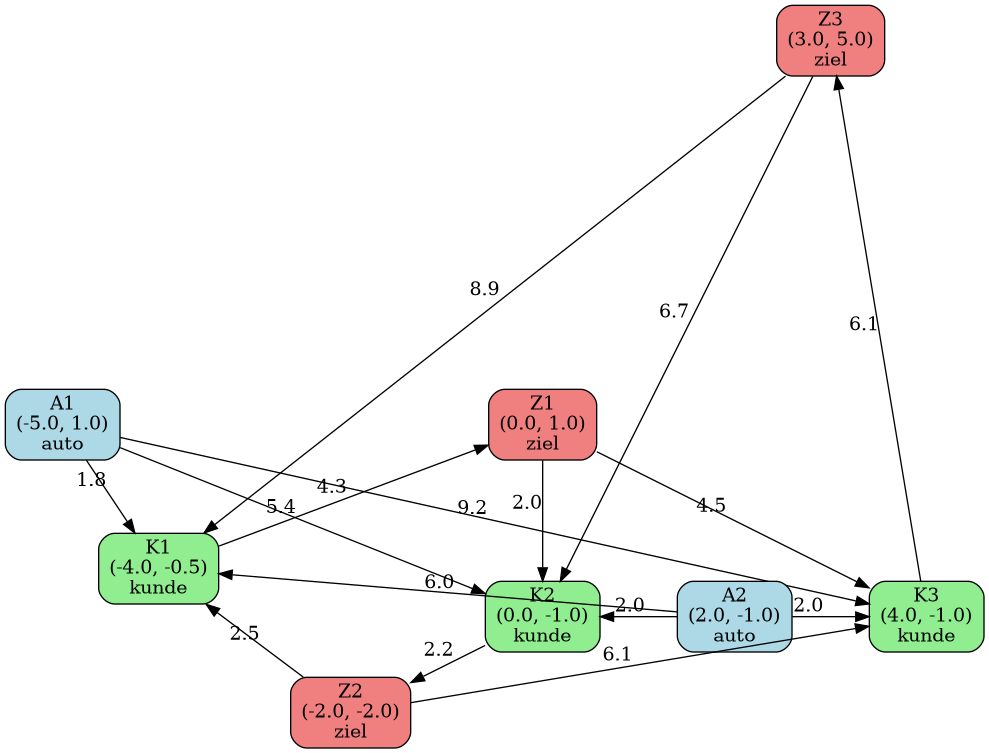
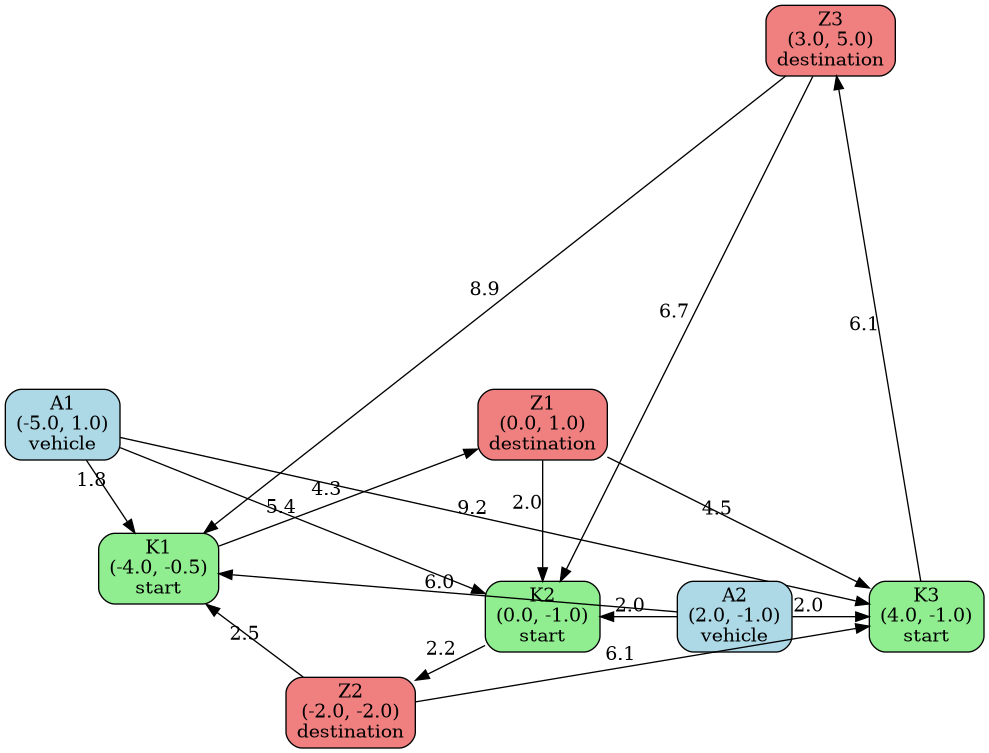
rename

diff --git a/algorithm/solver.py b/algorithm/solver.py
@@ -2,7 +2,7 @@ from graph import *
 
 
 def get_possible_moves(graph: Graph):
-    cars = [v for v in graph.vertices if v.type == "auto"]
+    cars = [v for v in graph.vertices if v.type == "vehicle"]
 
     moves: list[tuple[Vertex, tuple[Vertex, float, Vertex]]] = []
     for car in cars:
@@ -37,7 +37,7 @@ def perform_move(graph: Graph, move: tuple[Vertex, tuple[Vertex, float, Vertex]]
 
     graph.removeVertex(customer_goal)
 
-    newcar = Vertex(car.name, customer_goal.pos, "auto")
+    newcar = Vertex(car.name, customer_goal.pos, "vehicle")
 
     graph.addVertex(newcar, connections)
 
@@ -54,8 +54,8 @@ def undo_move(graph: Graph, move: tuple[Vertex, tuple[Vertex, float, Vertex]]):
     # remove car
     graph.removeVertex(car)
 
-    customers = [v for v in graph.vertices if v.type == "kunde"]
-    goals = [v for v in graph.vertices if v.type == "ziel"]
+    customers = [v for v in graph.vertices if v.type == "start"]
+    goals = [v for v in graph.vertices if v.type == "destination"]
 
     # add customer goal
     graph.addVertex(customer_goal, customers)
@@ -70,7 +70,7 @@ def undo_move(graph: Graph, move: tuple[Vertex, tuple[Vertex, float, Vertex]]):
     # add car
     graph.addVertex(car, customers + [customer])
 
-    cars = [v for v in graph.vertices if v.type == "auto"]
+    cars = [v for v in graph.vertices if v.type == "vehicle"]
 
     for other_car in cars:
         if other_car == car:
@@ -135,11 +135,11 @@ def solve(graph: Graph, car_paths: dict = None, best_solution: Solution = None, 
         # Initialize car paths for all cars
         car_paths = {
             car.name: CarPath(car)
-            for car in graph.vertices if car.type == "auto"
+            for car in graph.vertices if car.type == "vehicle"
         }
 
     # Check if we've found a solution (no more customers)
-    customers = [v for v in graph.vertices if v.type == "kunde"]
+    customers = [v for v in graph.vertices if v.type == "start"]
     if not customers:
         best_solution.max_checks -= 1
 

diff --git a/algorithm/graph.py b/algorithm/graph.py
@@ -1,8 +1,9 @@
 import graphviz
+import typing
 
 
 class Vertex:
-    def __init__(self, name, pos: tuple[float, float], type: str):
+    def __init__(self, name, pos: tuple[float, float], type: typing.Literal["vehicle", "start", "destination"]):
         self.name = name
         self.pos = pos
         self.type = type
@@ -61,11 +62,11 @@ class Graph:
 
     def draw_graph(self, output_file="graph.png", solution=None):
         def _get_color_for_type(vertex_type):
-            if vertex_type == "auto":
+            if vertex_type == "vehicle":
                 return "lightblue"
-            elif vertex_type == "kunde":
+            elif vertex_type == "start":
                 return "lightgreen"
-            elif vertex_type == "ziel":
+            elif vertex_type == "destination":
                 return "lightcoral"
             else:
                 return "white"

diff --git a/algorithm/main.py b/algorithm/main.py
@@ -2,16 +2,16 @@ import solver
 from graph import *
 
 
-A1 = Vertex("A1", (-5, 1), "auto")
-A2 = Vertex("A2", (2, -1), "auto")
+A1 = Vertex("A1", (-5, 1), "vehicle")
+A2 = Vertex("A2", (2, -1), "vehicle")
 
-K1 = Vertex("K1", (-4, -0.5), "kunde")
-K2 = Vertex("K2", (0, -1), "kunde")
-K3 = Vertex("K3", (4, -1), "kunde")
+K1 = Vertex("K1", (-4, -0.5), "start")
+K2 = Vertex("K2", (0, -1), "start")
+K3 = Vertex("K3", (4, -1), "start")
 
-Z1 = Vertex("Z1", (0, 1), "ziel")
-Z2 = Vertex("Z2", (-2, -2), "ziel")
-Z3 = Vertex("Z3", (3, 5), "ziel")
+Z1 = Vertex("Z1", (0, 1), "destination")
+Z2 = Vertex("Z2", (-2, -2), "destination")
+Z3 = Vertex("Z3", (3, 5), "destination")
 
 cars = [A1, A2]
 customers = [(K1, Z1), (K2, Z2), (K3, Z3)]

diff --git a/algorithm/main2.py b/algorithm/main2.py
@@ -9,7 +9,7 @@ for i in range(5):
     rx = random.uniform(-10, 10)
     ry = random.uniform(-10, 10)
 
-    cars.append(Vertex(f"A{i}", (rx, ry), "auto"))
+    cars.append(Vertex(f"A{i}", (rx, ry), "vehicle"))
 
 customers = []
 for i in range(10):
@@ -19,8 +19,8 @@ for i in range(10):
     zx = random.uniform(-10, 10)
     zy = random.uniform(-10, 10)
 
-    c = Vertex(f"K{i}", (kx, ky), "kunde")
-    z = Vertex(f"Z{i}", (zx, zy), "ziel")
+    c = Vertex(f"K{i}", (kx, ky), "start")
+    z = Vertex(f"Z{i}", (zx, zy), "destination")
 
     customers.append((c, z))
 
